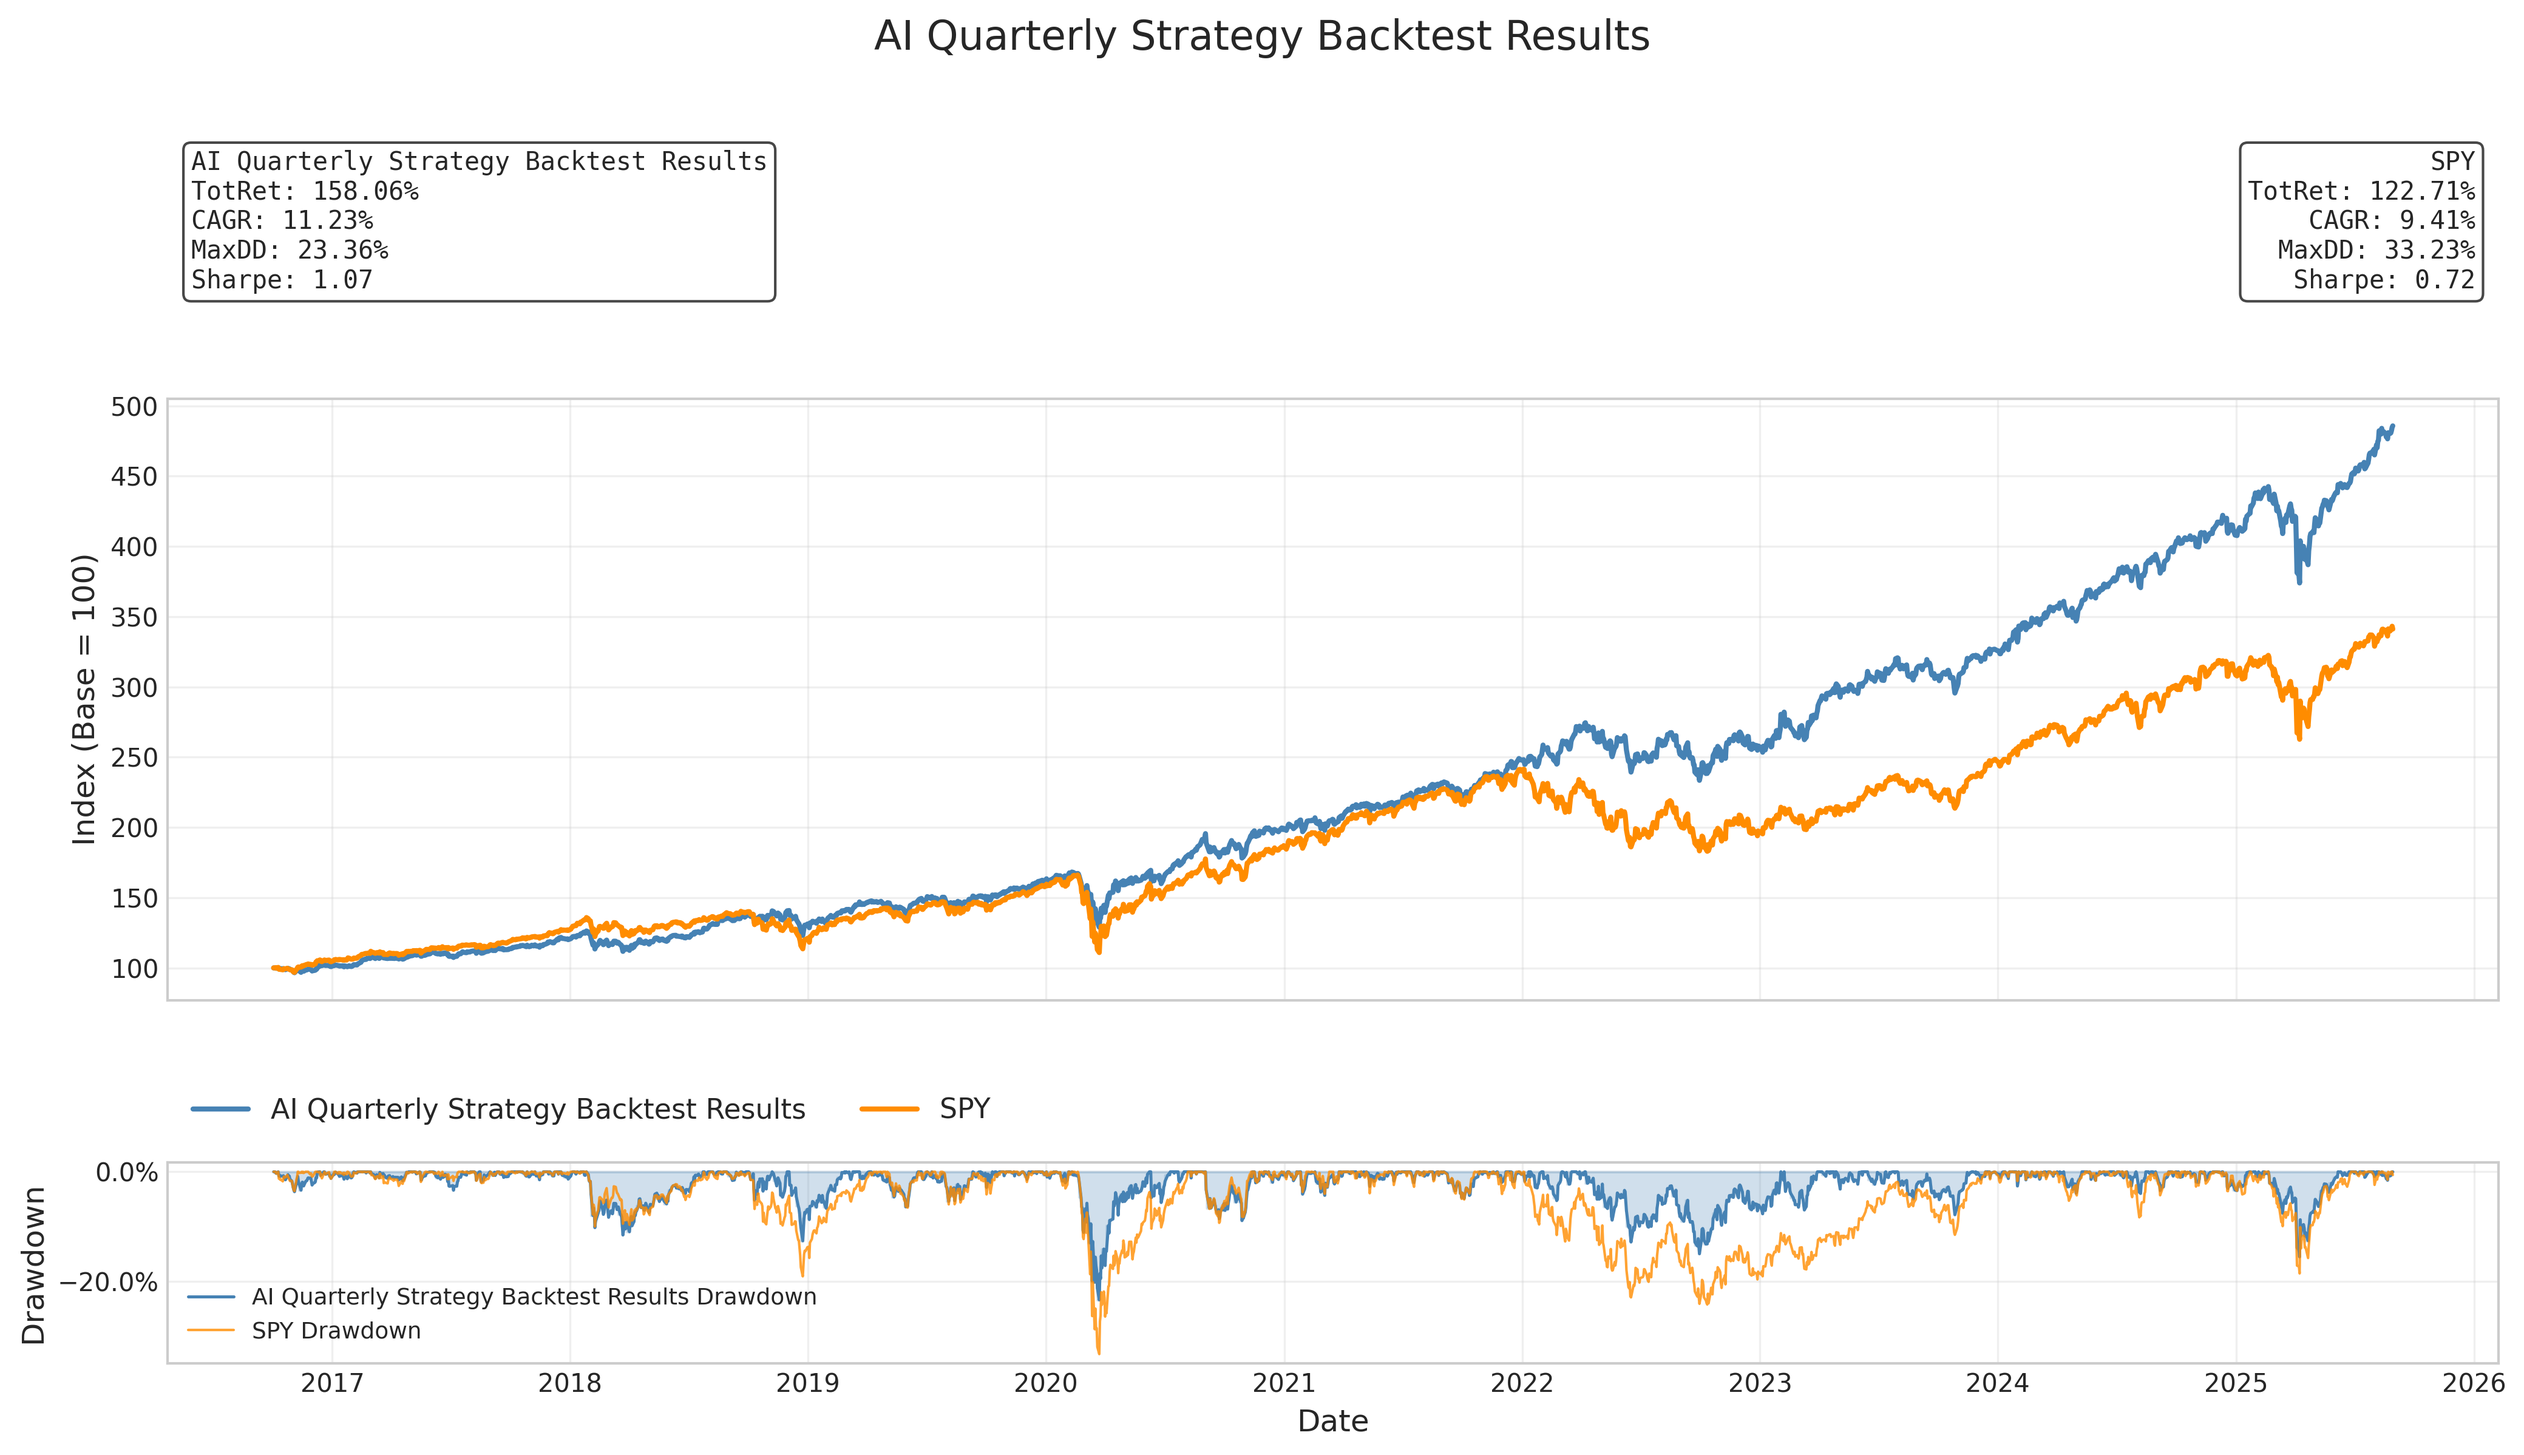
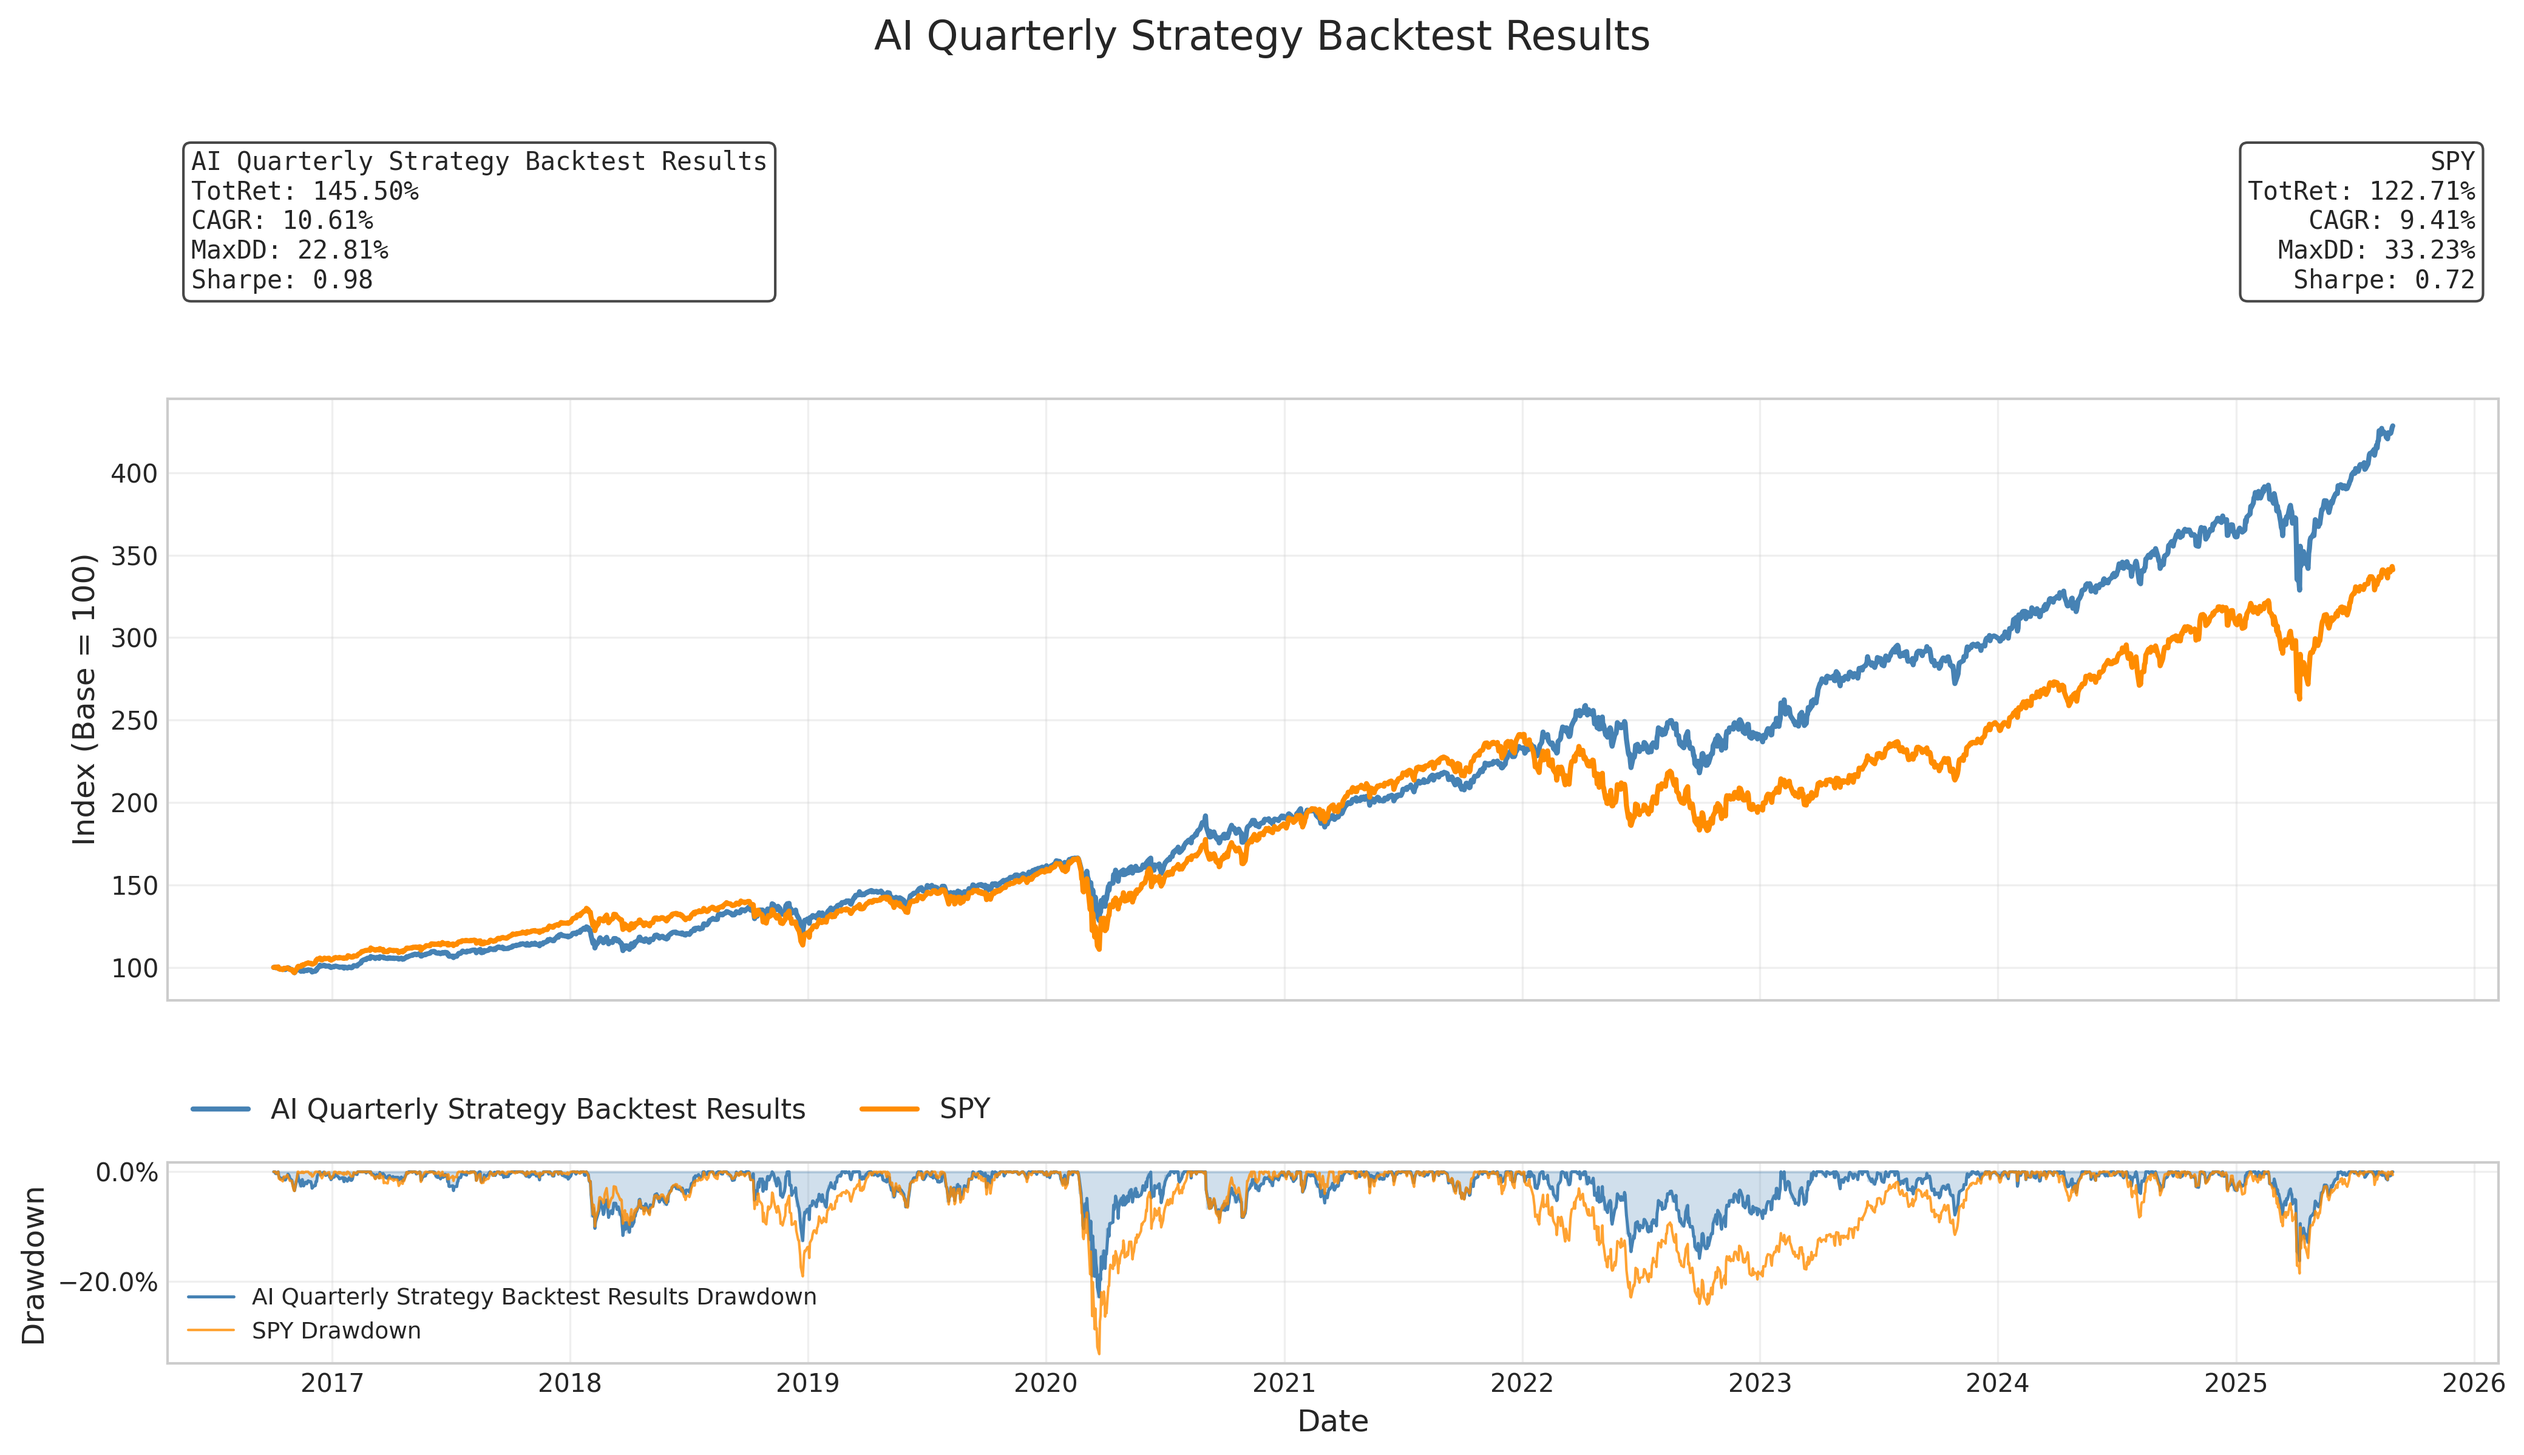
updated the performance demo

diff --git a/README.md b/README.md
@@ -6,9 +6,21 @@
 
 ## 回测结果图
 
-![AI策略回测示例](assets/ai_quarterly_strategy_returns.png)
+> 相比SPY，该策略有相对更低的回撤（22.81% vs 33.23%），更高的夏普比率（0.984 vs 0.721），以及略微更高的总收益（145.50% vs 122.71%）
 
-相比SPY，该策略有相对更低的回撤和略微更高的总收益
+### 收益率曲线和回测对比
+
+![收益率曲线和回测对比](assets/ai_quarterly_strategy_returns.png)
+
+### 每月损益热力图
+
+![每月损益热力图](assets/ai_quarterly_strategy_returns_heatmap.png)
+
+### 252天滚动夏普比率和波动率
+
+![](assets/ai_quarterly_strategy_returns_rolling.png)
+
+### 数据面板
 
 ```bash
 ==================================================
@@ -16,17 +28,17 @@
 ==================================================
 Time Period Covered:     2016-10-04 to 2025-08-31
 Initial Portfolio Value: $1,000,000.00
-Final Portfolio Value:   $4,649,106.03
+Final Portfolio Value:   $4,284,430.93
 --------------------------------------------------
-Total Return:            153.67%
-Annualized Return:       11.02%
-Max Drawdown:            25.59%
-Sharpe Ratio:           1.08
+Total Return:            145.50%
+Annualized Return:       10.61%
+Max Drawdown:            22.81%
+Sharpe Ratio:           0.984
 Risk-free Series:       DGS3MO
 ==================================================
 
 ==================================================
-        SPY Benchmark Results
+              SPY Benchmark Results
 ==================================================
 Time Period Covered:     2016-10-04 to 2025-08-29
 Initial Portfolio Value: $1,000,000.00
@@ -35,17 +47,28 @@ Final Portfolio Value:   $3,411,410.08
 Total Return:            122.71%
 Annualized Return:       9.41%
 Max Drawdown:            33.23%
-Sharpe Ratio:           0.86
+Sharpe Ratio:           0.721
 Risk-free Series:       DGS3MO
 ==================================================
 
 Benchmark Comparison (Unified Methodology):
-Metric              AI Quarterly Strategy Backtest        SPY
----------------------------------------------------------------------------
-Total Return        153.67%                               122.71%
-Annualized Return   11.02%                                9.41%
-Max Drawdown        25.59%                                33.23%
-Sharpe Ratio        1.080                                 0.860
+Metric              AI Quarterly Strategy BacktestSPY
+--------------------------------------------------------------------------------
+Total Return        145.50%                       122.71%
+Annualized Return   10.61%                        9.41%
+Max Drawdown        22.81%                        33.23%
+Sharpe Ratio        0.984                         0.721
+--------------------------------------------------------------------------------
+Period Covered:2016-10-04 to 2025-08-31 | 2016-10-04 to 2025-08-29
+Initial / Final: $1,000,000.00 → $4,284,430.93 | $1,000,000.00 → $3,411,410.08
+Risk-free Series: DGS3MO
+
+Segmented Performance (ending on latest observation):
+Horizon           CAGR     MaxDD    Calmar   Sortino       Vol     InfoR  TrackErr
+----------------------------------------------------------------------------------
+Last 1Y         21.73%   -16.22%      1.34      1.04    16.21%      0.53     7.66%
+Last 3Y         21.21%   -16.22%      1.31      1.09    14.43%      0.28     7.46%
+Last 5Y         17.97%   -16.22%      1.11      0.98    14.32%      0.31     8.32%
 ```
 
 ## 目录
